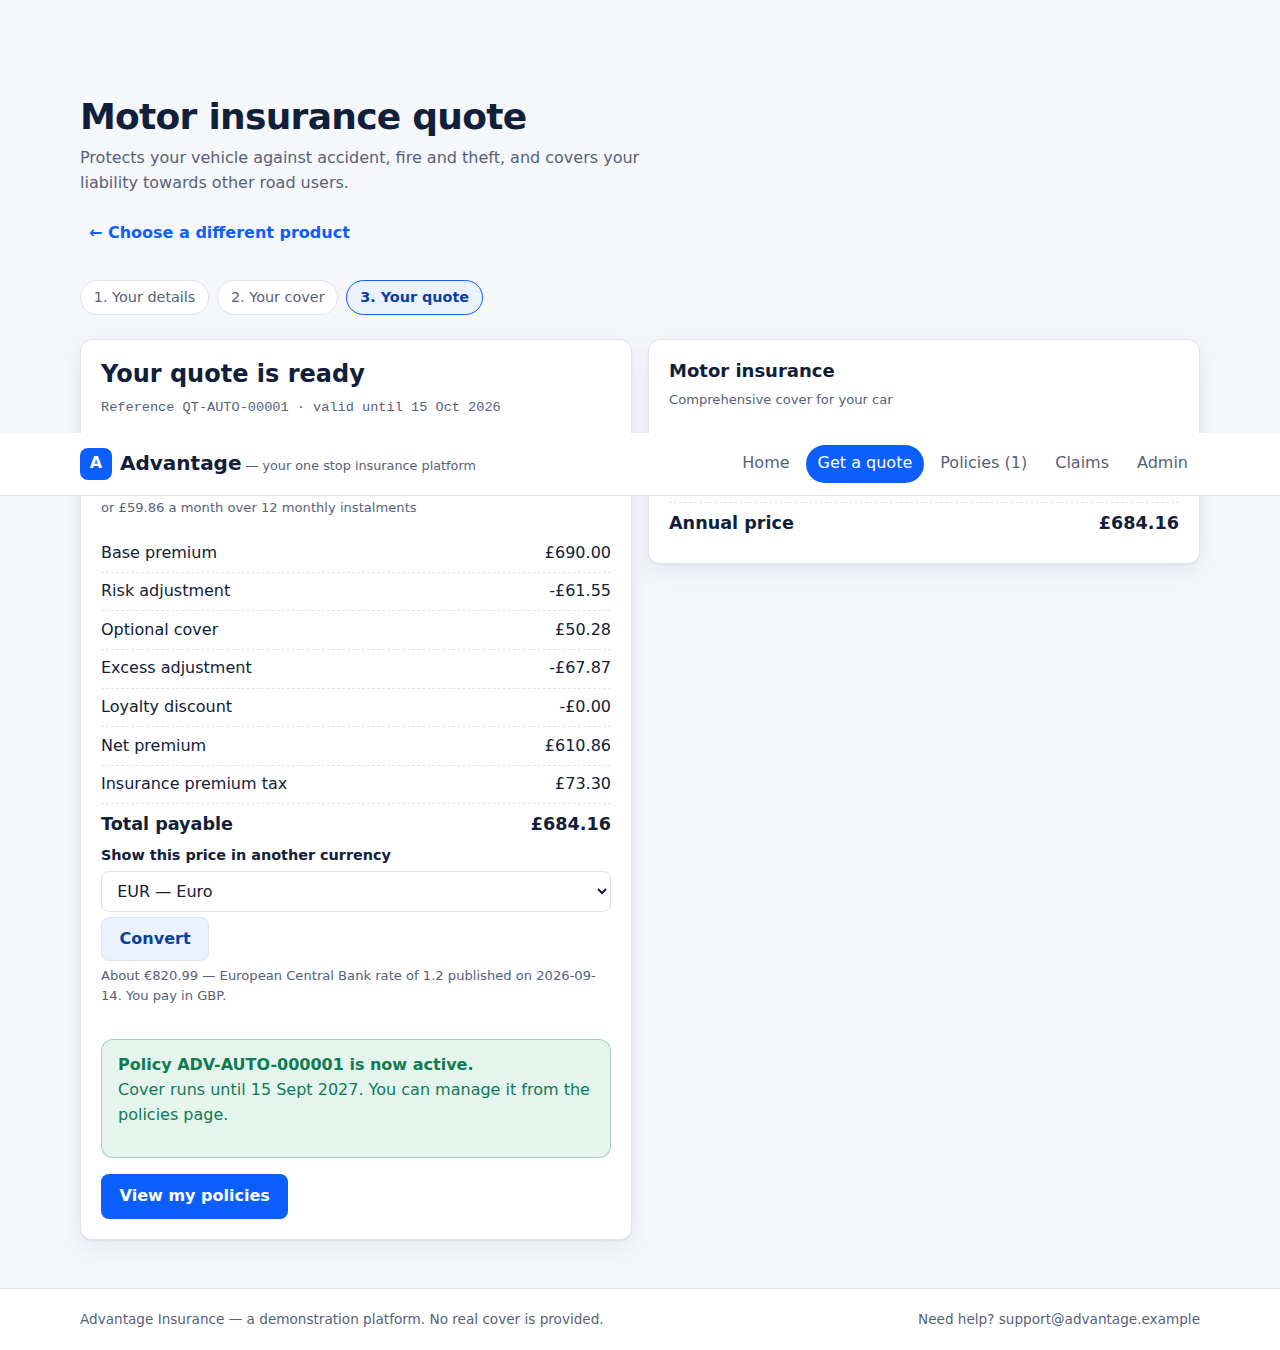
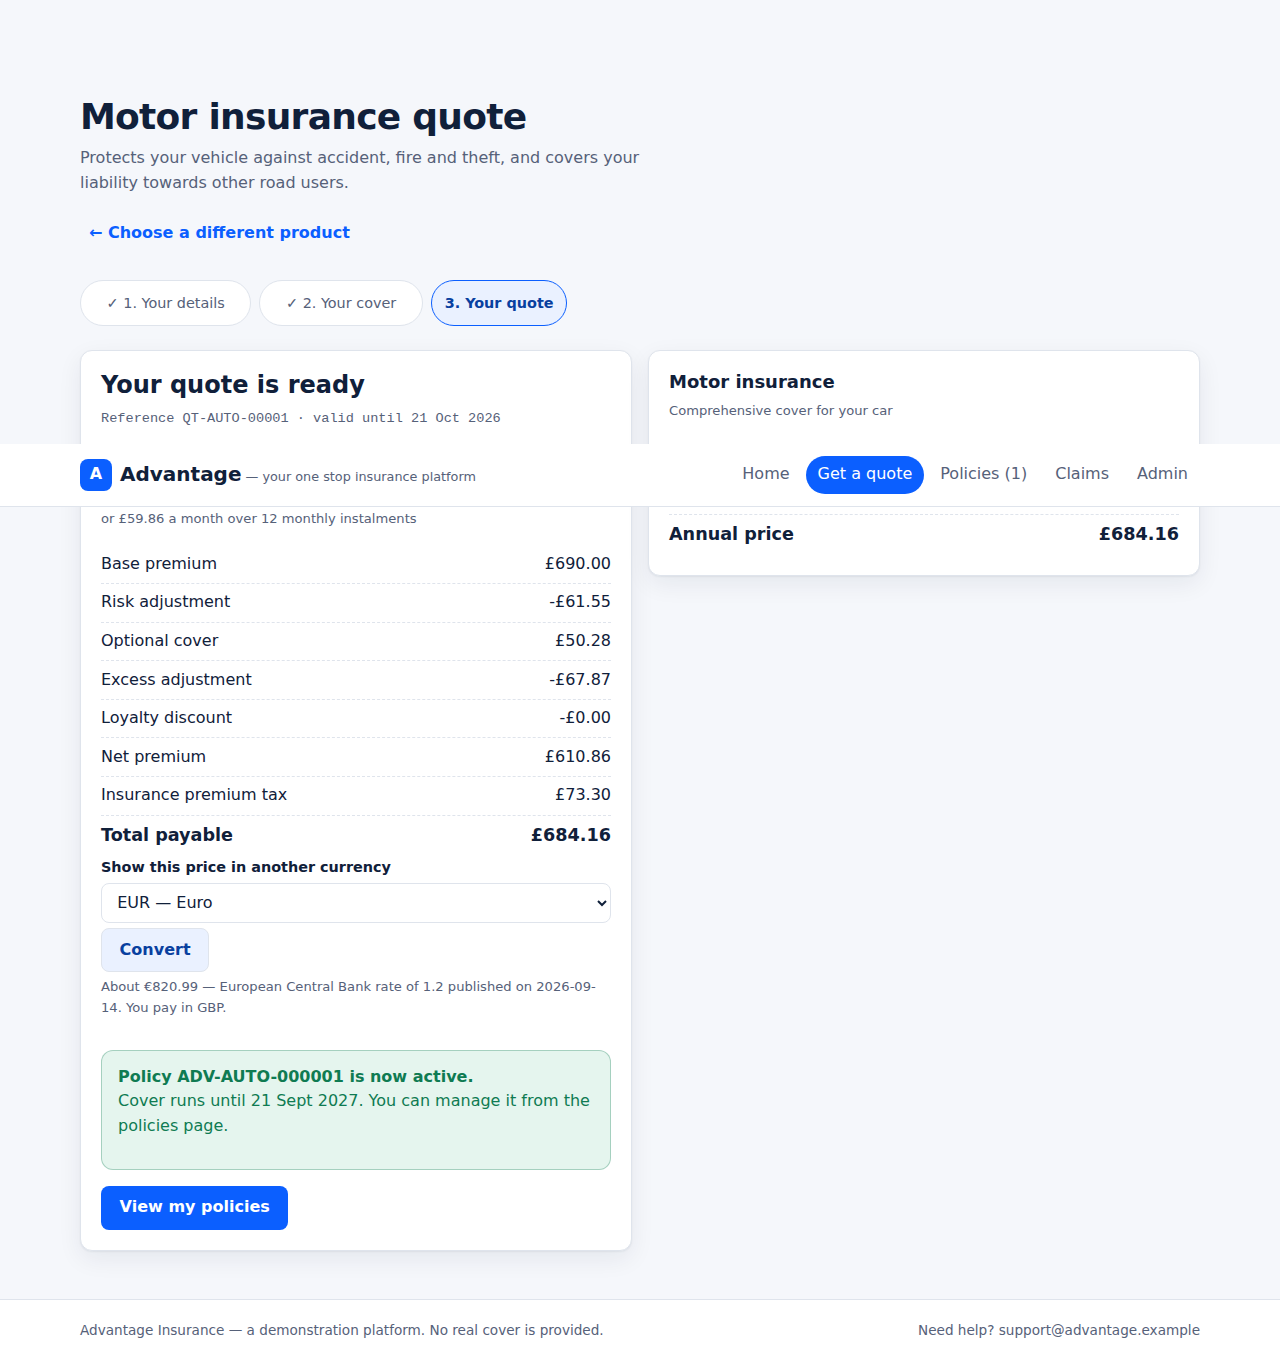
Improve accessibility UX and document it in the README

diff --git a/src/components/QuoteWizard.tsx b/src/components/QuoteWizard.tsx
@@ -5,6 +5,7 @@ import type { Applicant, Product, QuoteInput } from '../domain/types'
 import { navigate } from '../router'
 import { newId, useApp } from '../state/AppContext'
 import { AddressLookupField } from './AddressLookupField'
+import { ErrorSummary } from './ErrorSummary'
 import { CurrencyConverter } from './CurrencyConverter'
 import { PremiumSummary } from './PremiumSummary'
 
@@ -100,26 +101,39 @@ export function QuoteWizard({ product }: { product: Product }) {
 
   return (
     <div>
-      <ol className="steps">
-        {stepTitles.map((title, index) => (
-          <li key={title} aria-current={index === step ? 'step' : undefined}>
-            <span>
-              {index + 1}. {title}
-            </span>
-          </li>
-        ))}
+      <ol className="steps" aria-label={`Step ${step + 1} of ${stepTitles.length}`}>
+        {stepTitles.map((title, index) => {
+          const done = index < step
+          const label = `Step ${index + 1} of ${stepTitles.length}: ${title}`
+          return (
+            <li
+              key={title}
+              className={done ? 'steps__item steps__item--done' : 'steps__item'}
+              aria-current={index === step ? 'step' : undefined}
+            >
+              {done ? (
+                <button
+                  type="button"
+                  className="steps__link"
+                  onClick={() => {
+                    setErrors([])
+                    setStep(index)
+                  }}
+                >
+                  <span aria-hidden="true">✓</span> {index + 1}. {title}
+                  <span className="visually-hidden"> — completed, go back to this step</span>
+                </button>
+              ) : (
+                <span aria-label={label}>
+                  {index + 1}. {title}
+                </span>
+              )}
+            </li>
+          )
+        })}
       </ol>
 
-      {errors.length > 0 && (
-        <div className="alert alert--error" role="alert">
-          <strong>We need a few more details</strong>
-          <ul>
-            {errors.map((error) => (
-              <li key={error}>{error}</li>
-            ))}
-          </ul>
-        </div>
-      )}
+      <ErrorSummary title="We need a few more details" errors={errors} />
 
       <div className="grid grid--two">
         <div className="card">
@@ -253,7 +267,10 @@ export function QuoteWizard({ product }: { product: Product }) {
                 <button
                   type="button"
                   className="button button--secondary"
-                  onClick={() => setStep(0)}
+                  onClick={() => {
+                    setErrors([])
+                    setStep(0)
+                  }}
                 >
                   Back
                 </button>

diff --git a/tests/app.test.tsx b/tests/app.test.tsx
@@ -51,6 +51,48 @@ describe('Advantage platform', () => {
     const alert = screen.getByRole('alert')
     expect(within(alert).getByText(/enter the name of the person/i)).toBeInTheDocument()
     expect(within(alert).getByText(/enter a valid email address/i)).toBeInTheDocument()
+    expect(alert).toHaveFocus()
+  })
+
+  it('moves focus to the main content from the skip link', async () => {
+    const user = userEvent.setup()
+    renderApp()
+
+    await user.click(screen.getByRole('button', { name: /skip to main content/i }))
+
+    expect(screen.getByRole('main')).toHaveFocus()
+  })
+
+  it('names the page in the document title', async () => {
+    const user = userEvent.setup()
+    renderApp()
+
+    expect(document.title).toBe('Home — Advantage')
+
+    await user.click(screen.getAllByRole('button', { name: /get a quote/i })[0])
+
+    expect(document.title).toBe('Get a quote — Advantage')
+  })
+
+  it('lets you step back to a completed step of the quote wizard', async () => {
+    const user = userEvent.setup()
+    renderApp()
+
+    await user.click(screen.getAllByRole('button', { name: /get a quote/i })[0])
+    await user.click(screen.getByRole('button', { name: /quote home insurance/i }))
+
+    await user.type(screen.getByLabelText(/full name/i), 'Alex Turner')
+    await user.type(screen.getByLabelText(/email address/i), 'alex@example.com')
+    await user.type(screen.getByLabelText(/date of birth/i), '1986-01-01')
+    await user.type(screen.getByLabelText(/postcode/i), 'M1 2AB')
+    await user.click(screen.getByRole('button', { name: /continue to cover/i }))
+
+    expect(screen.getByRole('heading', { name: /choose your cover/i })).toBeInTheDocument()
+
+    await user.click(screen.getByRole('button', { name: /your details.*completed/i }))
+
+    expect(screen.getByRole('heading', { name: /about you/i })).toBeInTheDocument()
+    expect(screen.getByLabelText(/full name/i)).toHaveValue('Alex Turner')
   })
 
   it('quotes, buys and then claims on a policy', async () => {

diff --git a/src/App.tsx b/src/App.tsx
@@ -1,3 +1,4 @@
+import { useEffect } from 'react'
 import { useRoute } from './router'
 import { AdminPage } from './pages/AdminPage'
 import { ClaimsPage } from './pages/ClaimsPage'
@@ -14,6 +15,14 @@ const navItems = [
   { path: '/admin', label: 'Admin' },
 ]
 
+const pageTitles: Record<string, string> = {
+  '': 'Home',
+  quote: 'Get a quote',
+  policies: 'Your policies',
+  claims: 'Claims',
+  admin: 'Admin portal',
+}
+
 function isCurrent(navPath: string, segments: string[]): boolean {
   const section = segments[0] ? `/${segments[0]}` : '/'
   return navPath === section
@@ -23,6 +32,12 @@ export function App() {
   const { segments } = useRoute()
   const { state } = useApp()
   const section = segments[0] ?? ''
+
+  const pageTitle = pageTitles[section] ?? 'Page not found'
+
+  useEffect(() => {
+    document.title = `${pageTitle} — ${state.settings.brandName}`
+  }, [pageTitle, state.settings.brandName])
 
   let page
   switch (section) {
@@ -54,6 +69,13 @@ export function App() {
 
   return (
     <div className="app">
+      <button
+        type="button"
+        className="skip-link"
+        onClick={() => document.getElementById('main-content')?.focus()}
+      >
+        Skip to main content
+      </button>
       <header className="site-header">
         <div className="site-header__inner">
           <a className="brand" href="#/">
@@ -83,7 +105,9 @@ export function App() {
         </div>
       </header>
 
-      <main>{page}</main>
+      <main id="main-content" tabIndex={-1}>
+        {page}
+      </main>
 
       <footer className="site-footer">
         <div className="site-footer__inner">

diff --git a/src/index.css b/src/index.css
@@ -68,6 +68,31 @@ a {
   min-height: 100svh;
 }
 
+.skip-link {
+  position: absolute;
+  left: -9999px;
+  top: 0;
+  z-index: 20;
+  border: 1px solid var(--line);
+  border-radius: 0 0 8px 0;
+  padding: 0.6rem 1rem;
+  font: inherit;
+  font-weight: 600;
+  background: var(--surface);
+  color: var(--brand-dark);
+  cursor: pointer;
+}
+
+.skip-link:focus-visible {
+  left: 0;
+  outline: 2px solid var(--brand);
+  outline-offset: -2px;
+}
+
+main:focus {
+  outline: none;
+}
+
 .site-header {
   background: var(--surface);
   border-bottom: 1px solid var(--line);
@@ -431,6 +456,33 @@ legend {
   font-size: 0.9rem;
 }
 
+.steps__item--done {
+  border-color: var(--success);
+  color: var(--success);
+  background: var(--success-soft);
+  padding: 0;
+}
+
+.steps__link {
+  font: inherit;
+  font-size: 0.9rem;
+  color: inherit;
+  background: none;
+  border: 0;
+  border-radius: 999px;
+  padding: 0.35rem 0.8rem;
+  cursor: pointer;
+}
+
+.steps__link:hover {
+  text-decoration: underline;
+}
+
+.steps__link:focus-visible {
+  outline: 2px solid var(--brand);
+  outline-offset: 2px;
+}
+
 .steps li[aria-current='step'] {
   border-color: var(--brand);
   color: var(--brand-dark);
@@ -511,6 +563,11 @@ legend {
   padding: 0.85rem 1rem;
   margin-bottom: 1rem;
   border: 1px solid;
+}
+
+.alert:focus-visible {
+  outline: 2px solid var(--brand);
+  outline-offset: 2px;
 }
 
 .alert--error {

diff --git a/src/pages/ClaimsPage.tsx b/src/pages/ClaimsPage.tsx
@@ -1,4 +1,5 @@
 import { useMemo, useState } from 'react'
+import { ErrorSummary } from '../components/ErrorSummary'
 import { StatusBadge } from '../components/StatusBadge'
 import { getProduct } from '../domain/catalog'
 import {
@@ -79,16 +80,7 @@ export function ClaimsPage() {
           </div>
         ) : (
           <div className="card">
-            {errors.length > 0 && (
-              <div className="alert alert--error" role="alert">
-                <strong>We could not submit your claim</strong>
-                <ul>
-                  {errors.map((error) => (
-                    <li key={error}>{error}</li>
-                  ))}
-                </ul>
-              </div>
-            )}
+            <ErrorSummary title="We could not submit your claim" errors={errors} />
             {submittedReference && (
               <div className="alert alert--success" role="status">
                 <strong>Claim {submittedReference} submitted.</strong>

diff --git a/src/components/ErrorSummary.tsx b/src/components/ErrorSummary.tsx
@@ -1,0 +1,31 @@
+import { useEffect, useRef } from 'react'
+
+/**
+ * Accessible summary of validation errors: it is announced by screen readers and
+ * takes focus whenever the list of errors changes, so the problems are never missed.
+ */
+export function ErrorSummary({ title, errors }: { title: string; errors: string[] }) {
+  const ref = useRef<HTMLDivElement>(null)
+  const signature = errors.join('|')
+
+  useEffect(() => {
+    if (signature.length > 0) {
+      ref.current?.focus()
+    }
+  }, [signature])
+
+  if (errors.length === 0) {
+    return null
+  }
+
+  return (
+    <div className="alert alert--error" role="alert" tabIndex={-1} ref={ref}>
+      <strong>{title}</strong>
+      <ul>
+        {errors.map((error) => (
+          <li key={error}>{error}</li>
+        ))}
+      </ul>
+    </div>
+  )
+}

diff --git a/README.md b/README.md
@@ -24,6 +24,7 @@ claim against it. It runs entirely in the browser — no backend, no database an
 - [Testing](#testing)
 - [Project structure](#project-structure)
 - [Architecture](#architecture)
+- [Accessibility and UX](#accessibility-and-ux)
 - [Integrations](#integrations)
 - [How the premium is calculated](#how-the-premium-is-calculated)
 - [Deployment](#deployment)
@@ -54,6 +55,9 @@ claim against it. It runs entirely in the browser — no backend, no database an
 - **Real world integrations** — the platform calls live public services from the browser: postcodes
   are verified against postcodes.io and quote prices can be shown in another currency using the
   European Central Bank reference rates published by Frankfurter (`src/integrations/`).
+- **Accessible by default** — a skip link, focus management on validation errors, per page
+  document titles and a quote wizard you can step back through (`src/App.tsx`,
+  `src/components/ErrorSummary.tsx`).
 - **Persistence** — quotes, policies and claims are stored in the browser's local storage, so the
   platform runs as a static site with no backend (`src/state/storage.ts`).
 
@@ -96,7 +100,8 @@ All data lives in your browser's local storage; clearing site data resets the pl
 
 - **Unit and component tests** (`tests/`) run on Vitest with Testing Library and jsdom. They cover
   the rating engine, policy and claim lifecycles, settings, the state reducer, the integration
-  clients and the pages that use them.
+  clients, the accessibility behaviour (skip link, focus on errors, page titles) and the pages
+  that use them.
 - **End to end tests** (`e2e/advantage.spec.ts`) run on Playwright against the production build and
   walk the full journey: quote → policy → claim → admin. The screenshots in `docs/screenshots` are
   produced by this suite, so they stay in step with the UI.
@@ -133,6 +138,22 @@ e2e              Playwright end to end tests (screenshots are written to docs/sc
   files on any static host, including GitHub Pages.
 - **Isolated integrations.** External calls are confined to `src/integrations` behind a single
   result contract, so the rest of the app never deals with network failures directly.
+
+## Accessibility and UX
+
+The platform is keyboard and screen reader friendly:
+
+- **Skip to main content.** The first control on every page moves focus straight to `<main>`,
+  past the navigation.
+- **Announced errors.** Validation problems are collected into a single summary
+  (`src/components/ErrorSummary.tsx`) that is announced with `role="alert"` and takes focus, so
+  the reason a quote or claim was rejected is never missed.
+- **A wizard you can revisit.** The quote wizard shows which step you are on and which are
+  complete, and completed steps are buttons that take you back with your answers intact.
+- **Honest page titles.** The document title follows the route (`Get a quote — Advantage`), so
+  tabs, history and bookmarks stay meaningful.
+- **Live feedback.** The price panel updates as you answer, empty states explain what to do next,
+  and every status is shown as a labelled badge rather than colour alone.
 
 ## Integrations
 
